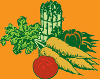
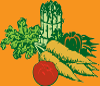
added proper emails and changed first image

diff --git a/app/assets/stylesheets/home.scss b/app/assets/stylesheets/home.scss
@@ -143,7 +143,7 @@ bottom: 0%;
 }
 
 .circle-badge img{
-  margin-top: 10%;
+  margin-top: 20%;
 }
 
 .cards {
@@ -165,7 +165,7 @@ padding-bottom: 5%;
 .cards .inside {
 background:rgba(144,200,71, 0.25);
 padding: 10% 15% 10% 15%;
-min-height: 600px;  
+min-height: 600px;
 }
 
 /* Footer */
